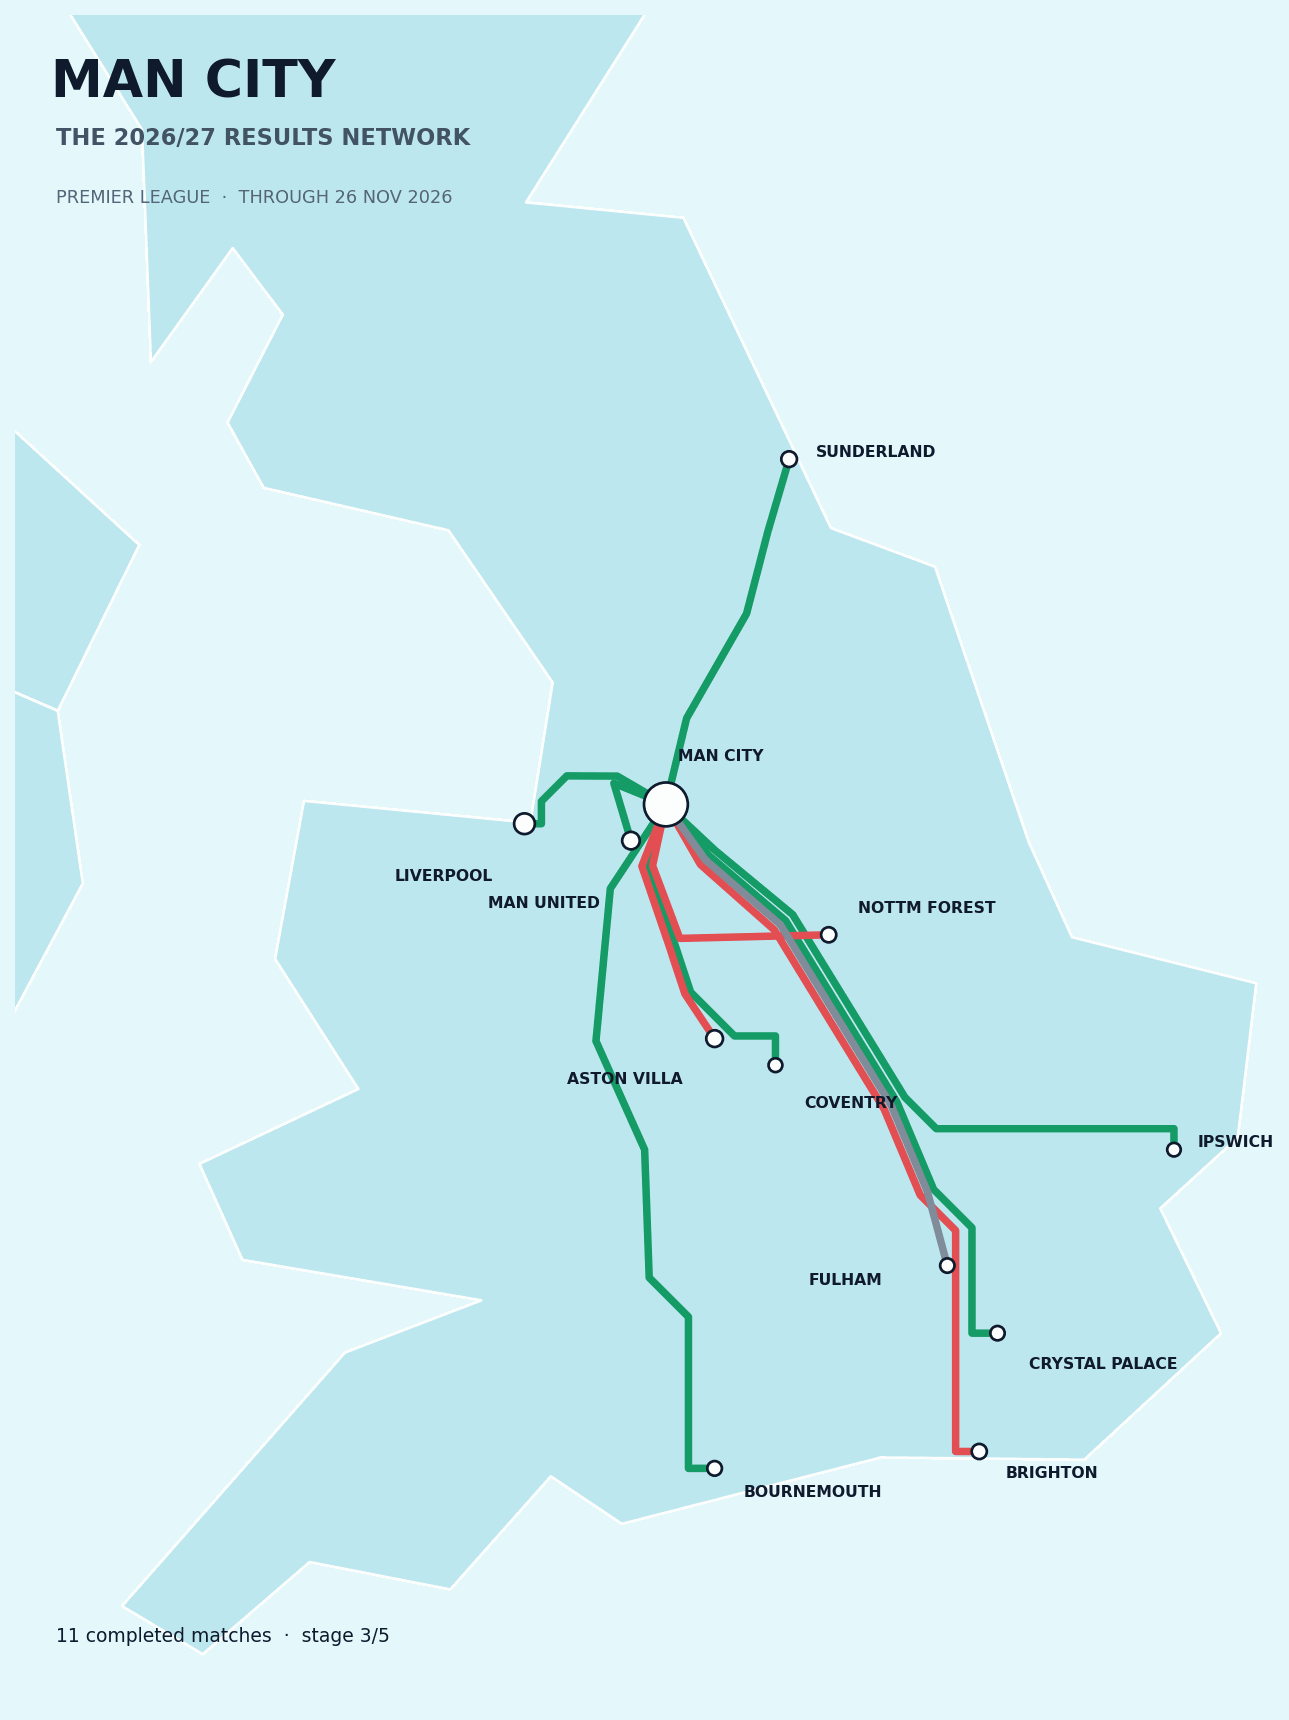
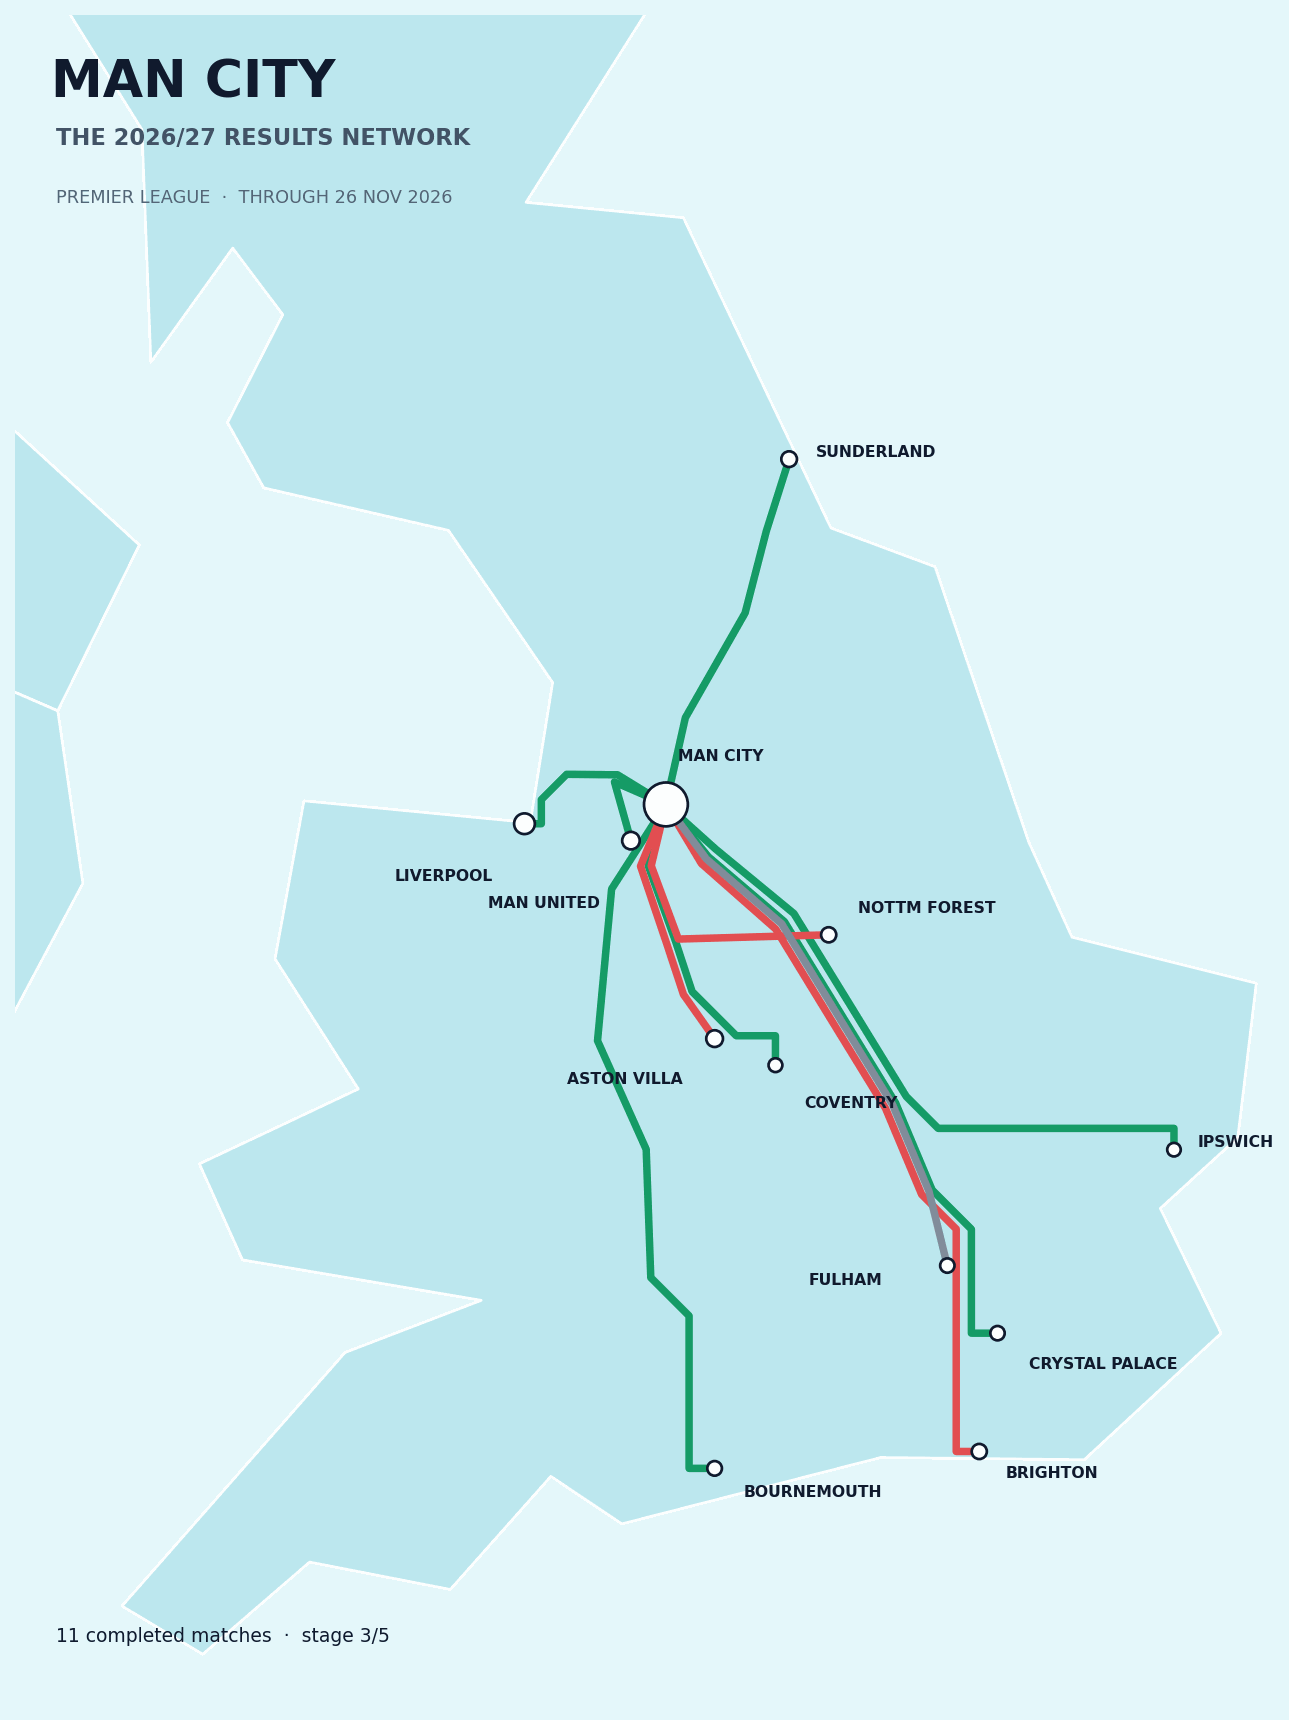
Reserve distinct home and away lane positions and refine final map

diff --git a/EPL_Subway_Map/_1_SM_Man_City.py b/EPL_Subway_Map/_1_SM_Man_City.py
@@ -153,7 +153,7 @@ def simplify_branch(start, end):
         knee2 = np.array([knee[0], ey])
     return [knee, knee2, end]
 
-def route_points(opponent: str, stage: int):
+def route_points(opponent: str, stage: int, venue: str | None = None):
     origin, dest = club_xy("Man City"), club_xy(opponent)
     if stage == 1:
         return np.array([origin, dest])
@@ -171,6 +171,10 @@ def route_points(opponent: str, stage: int):
             "Brighton": ("southeast", -.035, 6),
         }
         corridor, amount, count = final_routes.get(opponent, (corridor,amount,count))
+    if stage >= 3 and venue in ("HOME", "AWAY"):
+        # Each opponent's base offset is the centre of a reserved home/away
+        # pair. The completed match occupies one of its adjacent lane slots.
+        amount += .012 if venue == "HOME" else -.012
     base = np.array(CORRIDORS[corridor][:count])
     if stage == 2:
         amount = 0
@@ -254,7 +258,7 @@ def render(rows, stage):
     # Draw corridors from north to south; the outlines maintain visual
     # separation even when tracks meet the same station.
     for row in rows:
-        points=route_points(row["opponent"],stage)
+        points=route_points(row["opponent"],stage,row["venue"])
         draw_route(ax,points,COLORS[row["result"]],stage,row["venue"])
     draw_nodes(ax,stage)
     label_home_away(ax,rows,stage)

diff --git a/EPL_Subway_Map/README.md b/EPL_Subway_Map/README.md
@@ -1,6 +1,6 @@
 # Manchester City · EPL results subway map
 
-Static schematic map of Manchester City's completed **2026–27 Premier League** matches, verified **26 November 2026**. It uses City's perspective: green = win, red = loss, gray = draw. Each opponent has one line for the one league meeting played so far. Small **H** and **A** tags indicate whether City played at home or away. Unplayed fixtures and matches in other competitions are excluded.
+Static schematic map of Manchester City's completed **2026–27 Premier League** matches, verified **26 November 2026**. It uses City's perspective: green = win, red = loss, gray = draw. Each opponent has one line for the one league meeting played so far. Each opponent's route reserves adjacent home and away lane positions; the completed match occupies its corresponding slot. Small **H** and **A** tags indicate whether City played at home or away. Unplayed fixtures and matches in other competitions are excluded.
 
 ## Reproduce
 
